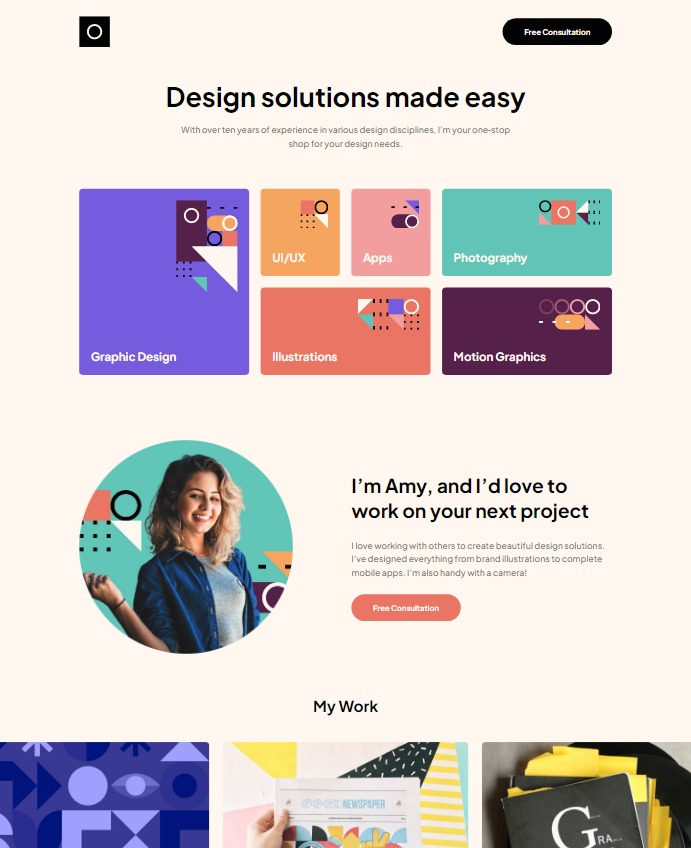
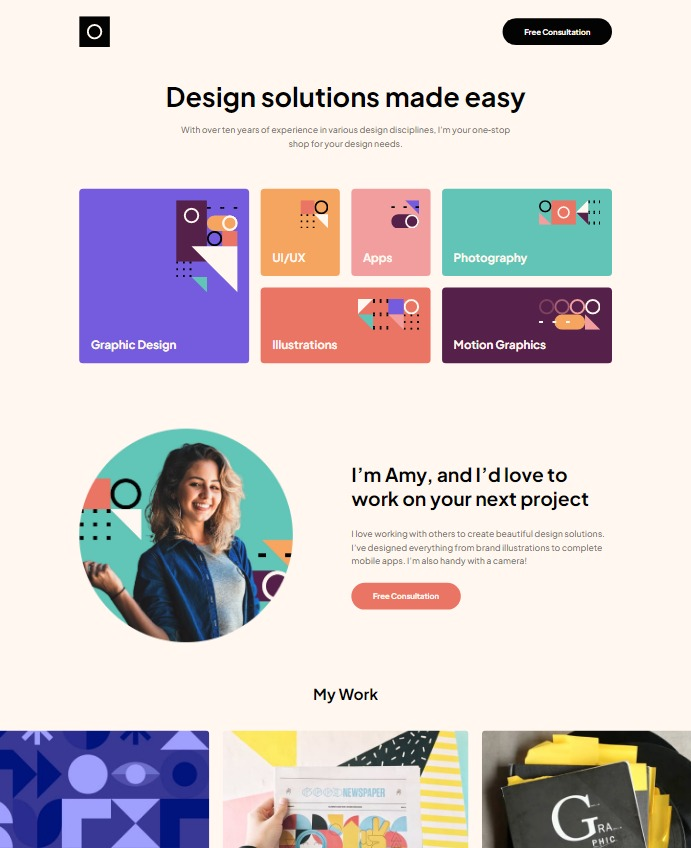
Fix last little design errors

diff --git a/resources/css/index.css b/resources/css/index.css
@@ -121,10 +121,11 @@ main {
   margin-bottom: 5.5rem;
   position: relative;
 }
-/* Service Grid */
+/* Services Grid */
 .grid-container {
   display: grid;
   grid-template-columns: repeat(6, 1fr);
+  grid-template-rows: 11.375rem 9.875rem;
   gap: 1.5rem;
   margin-bottom: 5.5rem;
 }
@@ -164,7 +165,6 @@ main {
 .card {
   border-radius: 0.5rem;
   width: 100%;
-  min-height: 11.375rem;
   display: flex;
   flex-direction: column;
   justify-content: space-between;
@@ -314,6 +314,7 @@ main {
   }
   .grid-container {
     grid-template-columns: repeat(4, 1fr);
+    grid-template-rows: 11.375rem 9.875rem 11.375rem;
   }
   .grid-container div:nth-child(5) {
     grid-column: span 2;
@@ -406,6 +407,7 @@ main {
   }
   .grid-container {
     grid-template-columns: repeat(2, 1fr);
+    grid-template-rows: repeat(2, 11.375rem 9.875rem) repeat(2, 11.375rem);
   }
   .grid-container div:nth-last-child(-n+2) {
     grid-column: span 2;
